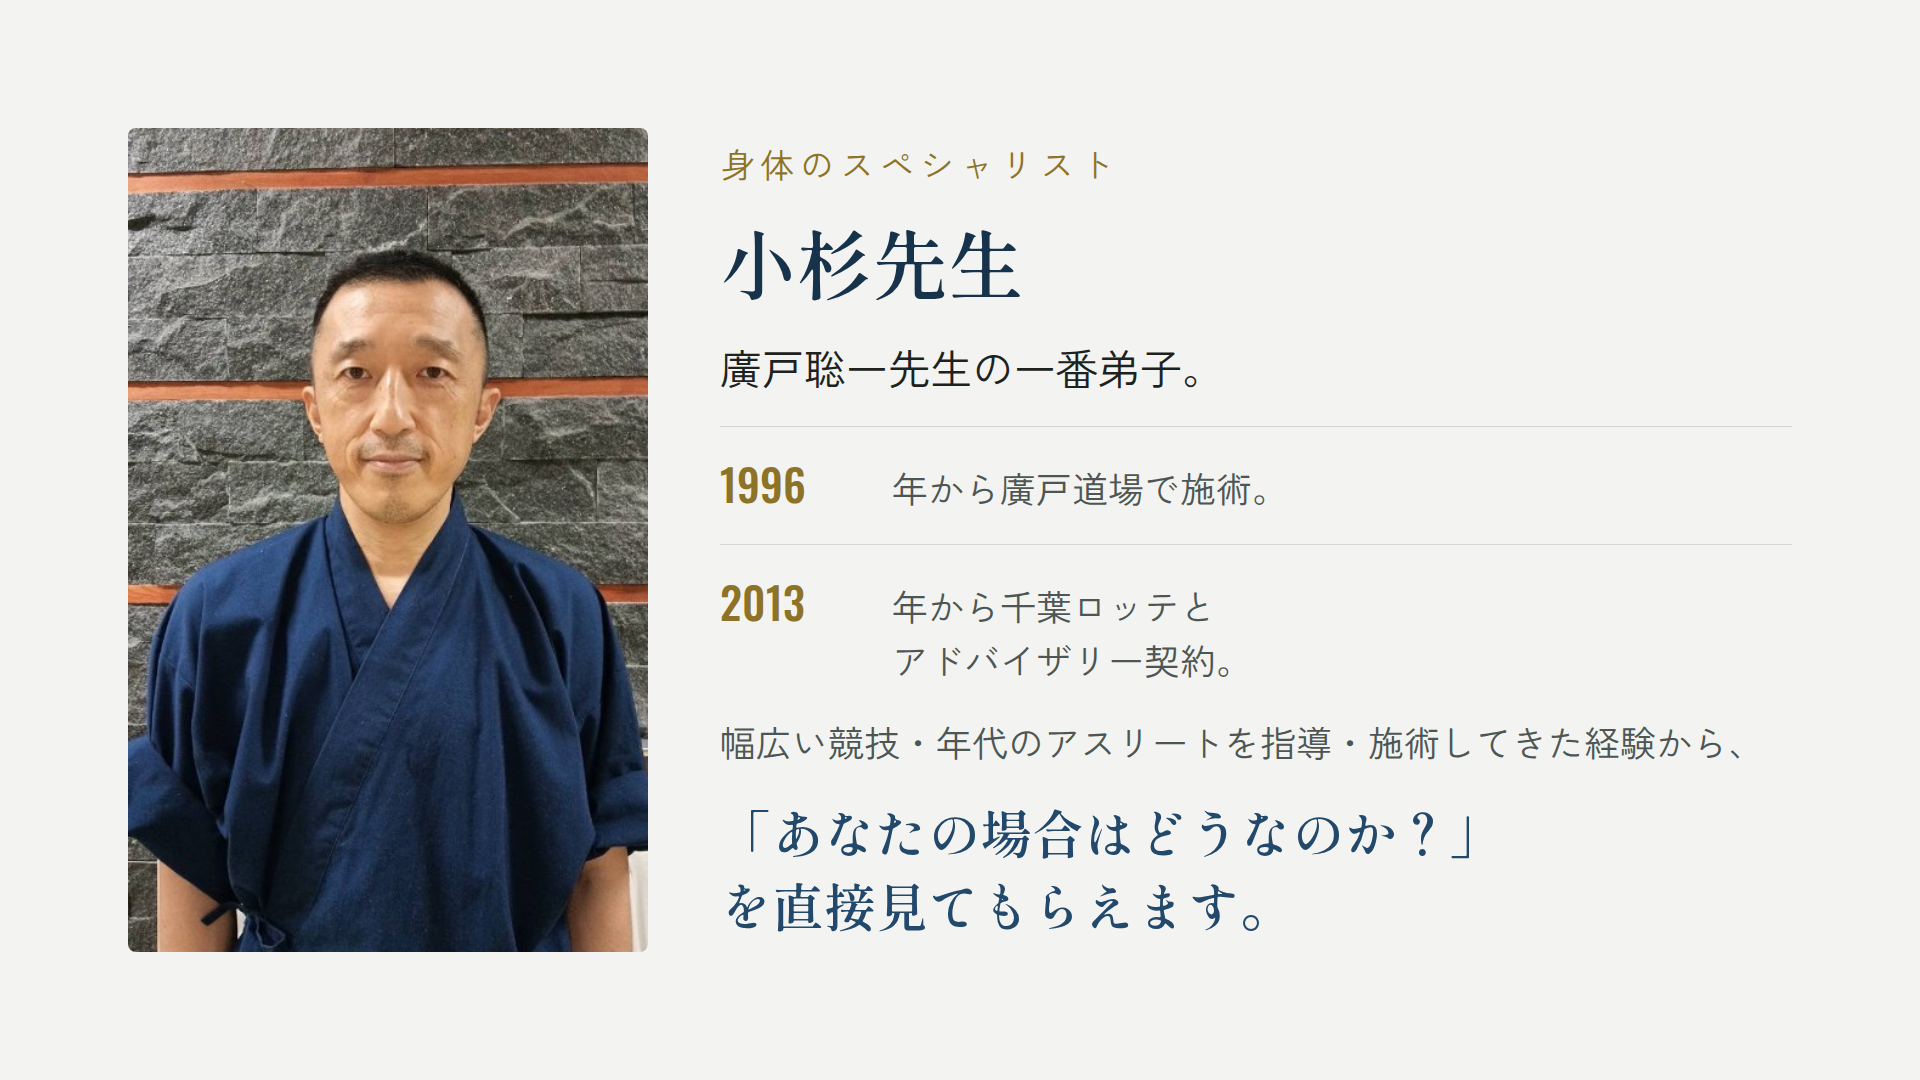
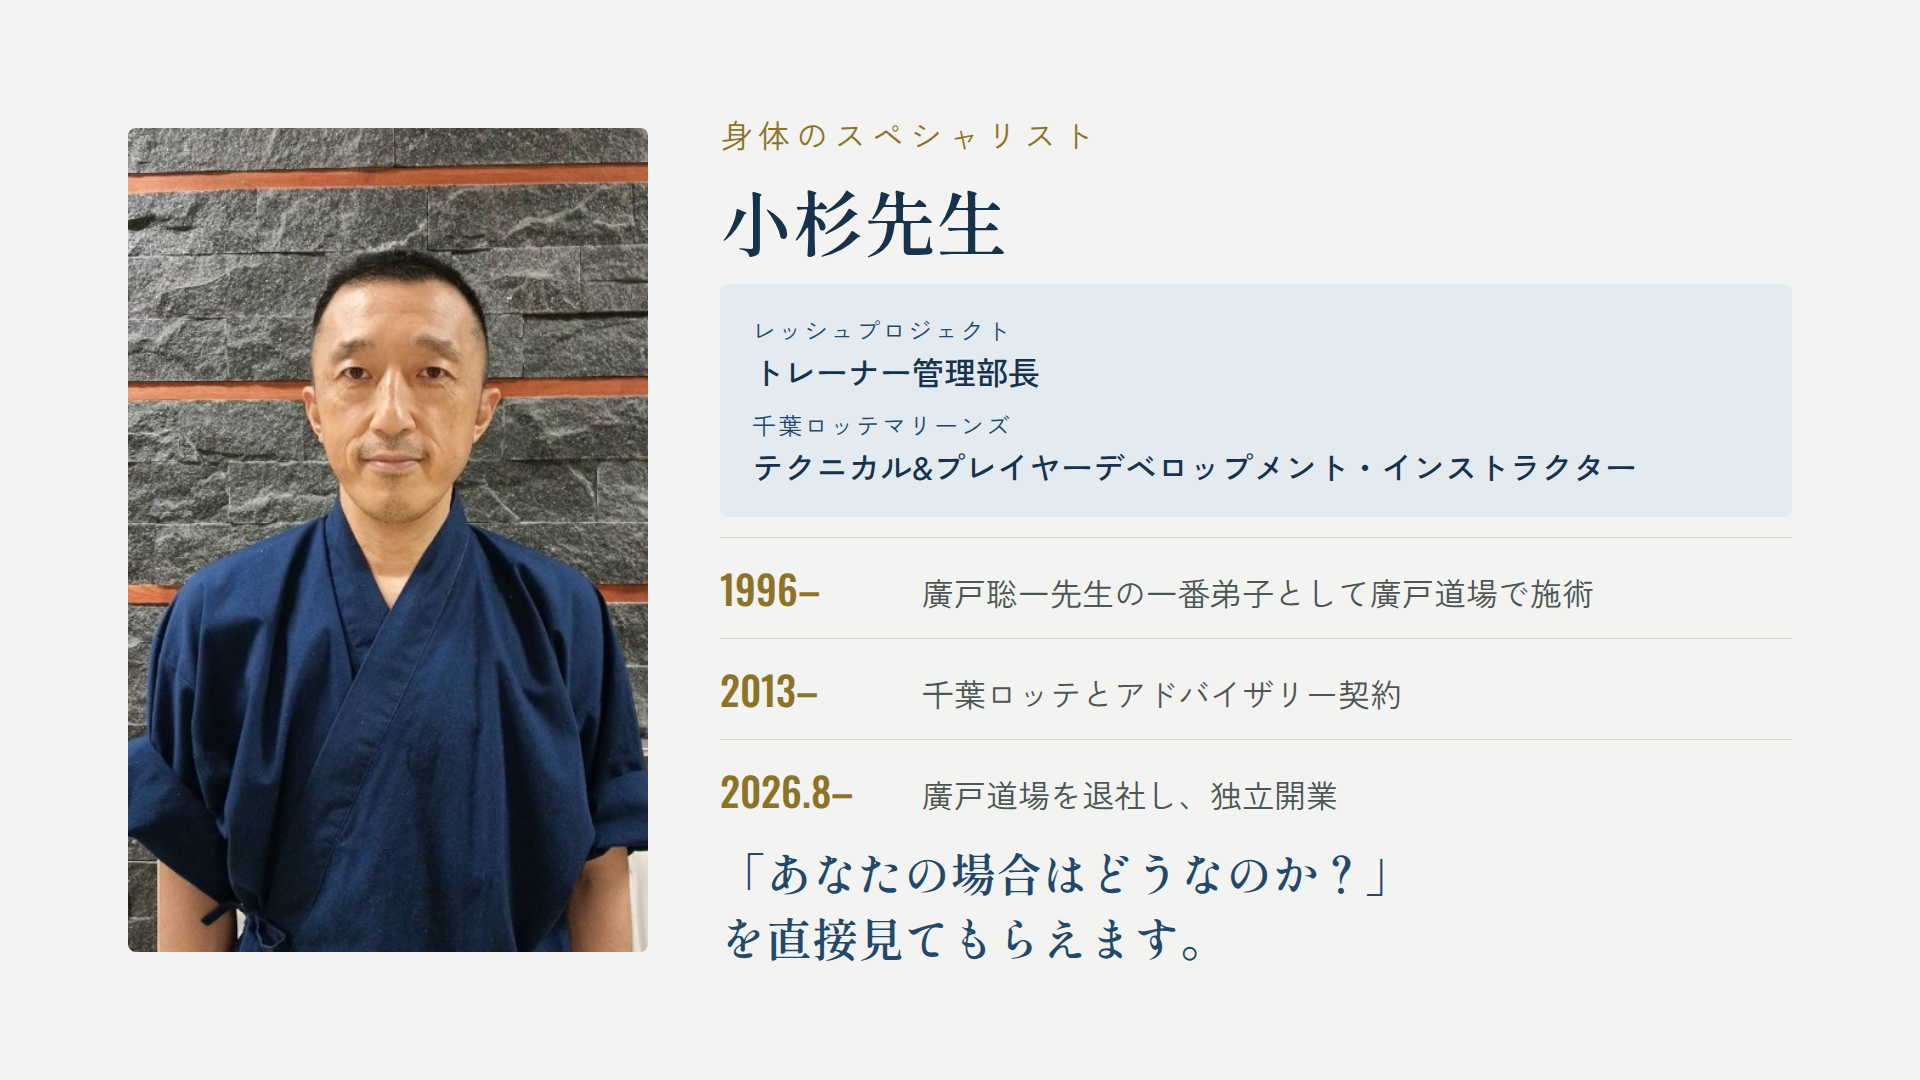
Update the instructor profile with current titles and practice
Add the two titles he holds now, shown in a panel above the history:
Russhu Project trainer management director, and Chiba Lotte Marines
technical and player development instructor.

The history gains his departure from Hiroto Dojo in August 2026 and
his own practice since, so the page no longer reads as though he is
still based there. Applied to the page and to the instructor slide,
whose PNG export is re-rendered.

Claude-Session: https://claude.ai/code/session_0169r95ZiBATNM4wyux34bk9

diff --git a/index.html b/index.html
@@ -336,6 +336,28 @@
     letter-spacing:.04em;
   }
 
+  .titles{
+    list-style:none;
+    margin:0 0 1.5rem;
+    padding:1.125rem 1.25rem;
+    background:var(--ai-wash);
+    border-radius:2px;
+    display:flex; flex-direction:column; gap:.875rem;
+  }
+  .titles li{ display:flex; flex-direction:column; gap:.1rem; }
+  .titles .org{
+    font-size:.75rem;
+    letter-spacing:.1em;
+    line-height:1.6;
+    color:var(--ai);
+  }
+  .titles .role{
+    font-size:.9375rem;
+    font-weight:500;
+    line-height:1.6;
+    color:var(--ink);
+  }
+
   /* --- 写真（講師枠以外の共通スタイル） ----------------------- */
   .photo{ margin:0; }
   .photo .frame{
@@ -669,12 +691,16 @@
       </div>
       <div>
         <h3>身体のスペシャリスト</h3>
-        <p>廣戸聡一先生の一番弟子として、1996年から廣戸道場で施術。</p>
-        <p>2013年からは千葉ロッテとアドバイザリー契約を結び、野球だけではなく、さまざまな競技・幅広い年代のアスリートへ指導・施術を行ってきた身体のスペシャリストです。</p>
+        <ul class="titles">
+          <li><span class="org">レッシュプロジェクト</span><span class="role">トレーナー管理部長</span></li>
+          <li><span class="org">千葉ロッテマリーンズ</span><span class="role">テクニカル&amp;プレイヤーデベロップメント・インストラクター</span></li>
+        </ul>
+        <p>廣戸聡一先生の一番弟子として、1996年から廣戸道場で施術。2026年8月に同道場を退社し、現在は独立して施術・指導にあたっています。</p>
+        <p>2013年からは千葉ロッテと関わり、野球だけではなく、さまざまな競技・幅広い年代のアスリートへ指導・施術を行ってきた身体のスペシャリストです。</p>
         <ul class="credits">
           <li><span class="yr">1996–</span><span>廣戸聡一先生の一番弟子として廣戸道場で施術</span></li>
           <li><span class="yr">2013–</span><span>千葉ロッテとアドバイザリー契約</span></li>
-          <li><span class="yr">現在</span><span>競技・年代を問わず、アスリートへ指導・施術</span></li>
+          <li><span class="yr">2026.8–</span><span>廣戸道場を退社し、独立開業</span></li>
         </ul>
       </div>
     </div>
